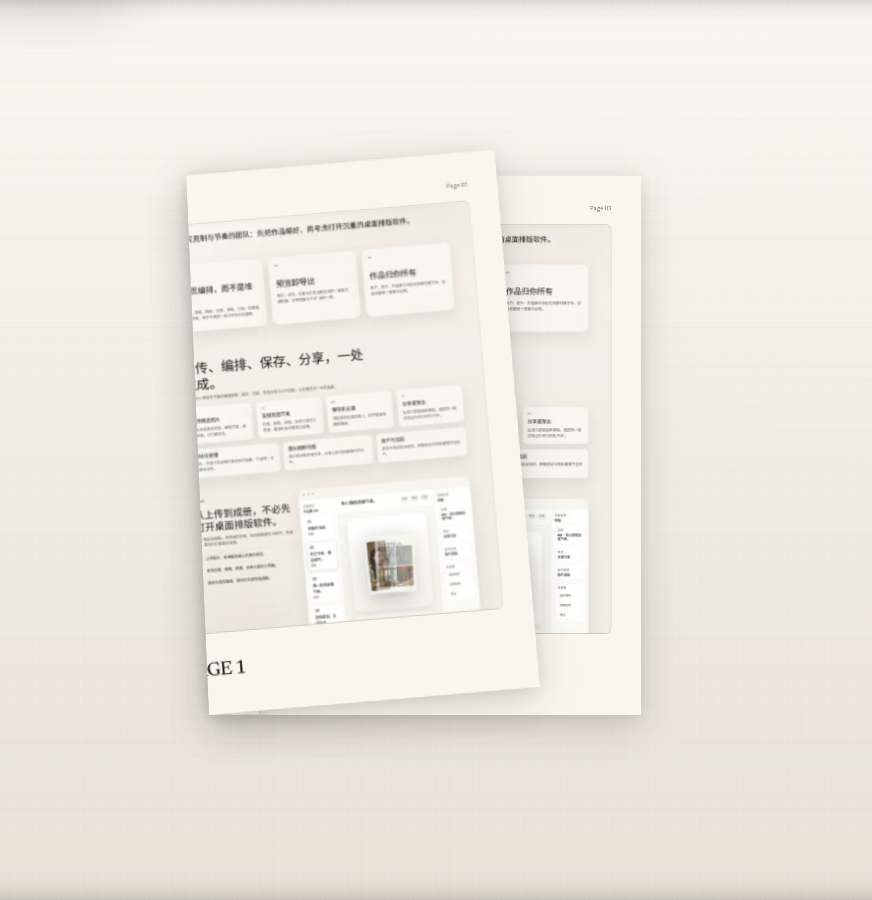
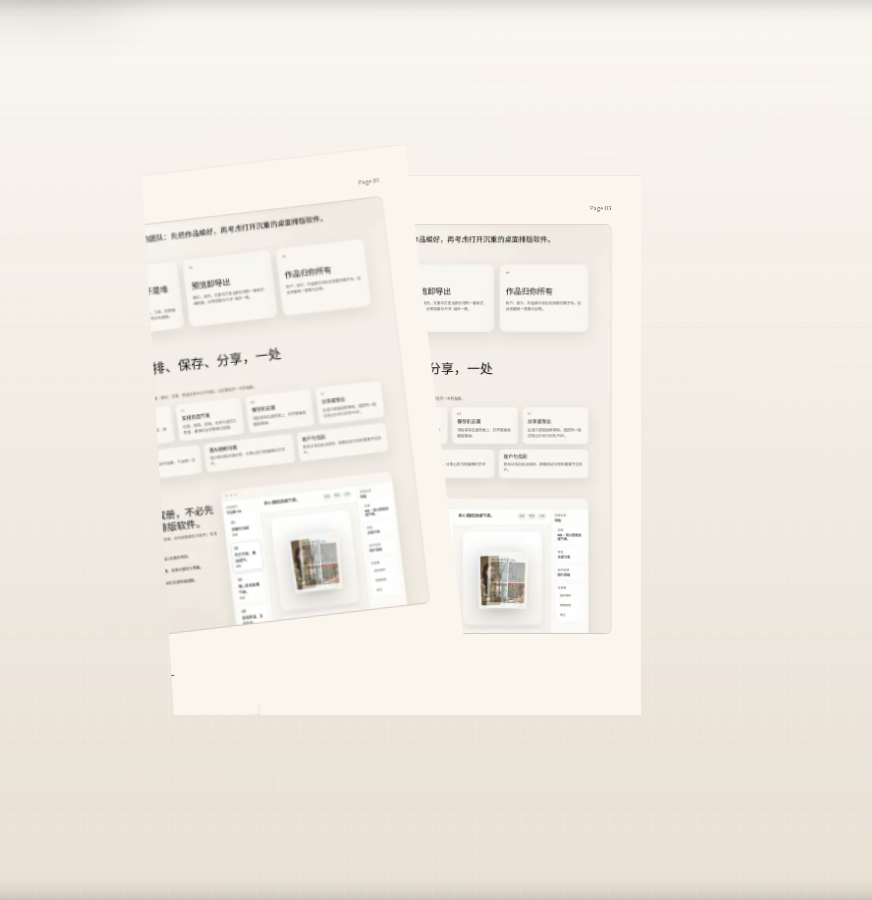
Use per-page box-shadow instead of a drop-shadow filter
The page shadow was a `filter: drop-shadow` on the page wrapper. A filter forces
the whole page, including images, to re-rasterize during the 3D turn, which made
the shadow unstable on presses, drags and corner peels and made images flicker.

The shadow is now a `box-shadow` on the page surface. It is static CSS, follows
the transformed page, and has no filter ancestor, so the shadow value does not
change on hover or press and images are not re-rasterized. There is still no
global background shadow.

Tests assert the per-page box-shadow in every state, that no wrapper or image
ancestor has a filter, and that hovering all four corners and pressing the page
leave the shadow value unchanged.

Changed region(s): [[0.1548, 0.2178, 0.7122, 0.84], [0.4335, 0.2489, 0.5883, 0.3422], [0.4025, 0.3733, 0.4335, 0.4044]]

diff --git a/tests/e2e/reader-turn.spec.ts b/tests/e2e/reader-turn.spec.ts
@@ -107,8 +107,9 @@ type PageShadowState = {
   globalAfterContent: string;
   globalBeforeShadow: string;
   globalAfterShadow: string;
-  pageFilters: string[];
-  visiblePageFilters: string[];
+  wrapperFilters: string[];
+  visiblePageShadows: string[];
+  imageAncestorFilters: string[];
 };
 
 async function pageShadowState(page: Page): Promise<PageShadowState | null> {
@@ -117,23 +118,44 @@ async function pageShadowState(page: Page): Promise<PageShadowState | null> {
     if (!book) return null;
     const wrappers = Array.from(book.querySelectorAll('.page-wrapper'));
     const visible = wrappers.filter((wrapper) => wrapper.getBoundingClientRect().width > 10);
+    const imageAncestorFilters = Array.from(book.querySelectorAll('img')).flatMap((image) => {
+      const filters: string[] = [];
+      let node: HTMLElement | null = image;
+      while (node && node !== book) {
+        filters.push(getComputedStyle(node).filter);
+        node = node.parentElement;
+      }
+      return filters;
+    });
     return {
       className: book.className,
       globalBeforeContent: getComputedStyle(book, '::before').content,
       globalAfterContent: getComputedStyle(book, '::after').content,
       globalBeforeShadow: getComputedStyle(book, '::before').boxShadow,
       globalAfterShadow: getComputedStyle(book, '::after').boxShadow,
-      pageFilters: wrappers.map((wrapper) => getComputedStyle(wrapper).filter),
-      visiblePageFilters: visible.map((wrapper) => getComputedStyle(wrapper).filter),
+      wrapperFilters: wrappers.map((wrapper) => getComputedStyle(wrapper).filter),
+      visiblePageShadows: visible.map(
+        (wrapper) => getComputedStyle(wrapper.querySelector('.magazine-page') ?? wrapper).boxShadow,
+      ),
+      imageAncestorFilters,
     };
   });
 }
 
 function expectPageShadows(state: PageShadowState | null) {
   expect(state).not.toBeNull();
-  expect(state!.visiblePageFilters.length).toBeGreaterThan(0);
-  for (const filter of state!.visiblePageFilters) {
-    expect(filter).toContain('drop-shadow');
+  expect(state!.visiblePageShadows.length).toBeGreaterThan(0);
+  for (const shadow of state!.visiblePageShadows) {
+    expect(shadow, 'page surface shadow').not.toBe('none');
+    expect(shadow).toContain('rgba');
+  }
+  // No filter on the wrappers or on any image ancestor: filters force the
+  // page content to re-rasterize during 3D transforms and make images flicker.
+  for (const filter of state!.wrapperFilters) {
+    expect(filter, 'page wrapper filter').toBe('none');
+  }
+  for (const filter of state!.imageAncestorFilters) {
+    expect(filter, 'image ancestor filter').toBe('none');
   }
   expect(state!.globalBeforeContent).toBe('none');
   expect(state!.globalAfterContent).toBe('none');
@@ -192,6 +214,66 @@ test('a turn keeps the page shadow and never introduces a global background shad
   await page.mouse.up();
   await page.waitForTimeout(300);
   expectPageShadows(await pageShadowState(page));
+});
+
+test('hovering a corner and pressing a page do not change the page shadow', async ({ page }) => {
+  await signIn(page, '/editor');
+  const sharePath = await createShare(page);
+  await page.goto(sharePath);
+  await expect(page.locator('.issue-viewer__turnjs--ready')).toBeVisible({ timeout: 20_000 });
+  await page.waitForTimeout(800);
+  const next = page.locator('.issue-view-sidebar button').filter({ hasText: /Next|下一页/ }).first();
+  await next.click();
+  await page.waitForTimeout(900);
+
+  const shadows = () =>
+    page.evaluate(() => {
+      const map = new Map<string, string>();
+      document.querySelectorAll('.issue-viewer__turnjs .page-wrapper').forEach((wrapper) => {
+        if (wrapper.getBoundingClientRect().width <= 10) return;
+        const page = wrapper.querySelector('.page');
+        const key = page?.className.match(/\bp\d+\b/)?.[0] ?? Math.random().toString();
+        map.set(key, getComputedStyle(wrapper.querySelector('.magazine-page') ?? wrapper).boxShadow);
+      });
+      return Array.from(map.entries());
+    });
+
+  const before = await shadows();
+  const beforeMap = new Map(before);
+  const book = page.locator('.issue-viewer__turnjs');
+  const box = await book.boundingBox();
+  expect(box).not.toBeNull();
+
+  // Hover each corner; the page shadow value must not change.
+  const corners: Array<[number, number]> = [
+    [box!.x + 8, box!.y + 8],
+    [box!.x + box!.width - 8, box!.y + 8],
+    [box!.x + 8, box!.y + box!.height - 8],
+    [box!.x + box!.width - 8, box!.y + box!.height - 8],
+  ];
+  for (const [x, y] of corners) {
+    await page.mouse.move(x, y);
+    await page.waitForTimeout(350);
+    const after = new Map(await shadows());
+    for (const [key, value] of beforeMap) {
+      if (after.has(key)) {
+        expect(after.get(key), `shadow for ${key} after hovering ${x},${y}`).toBe(value);
+      }
+    }
+  }
+
+  // Press and hold the page centre; the shadow value must not change.
+  await page.mouse.move(box!.x + box!.width / 2, box!.y + box!.height / 2);
+  await page.mouse.down();
+  await page.waitForTimeout(500);
+  const pressed = new Map(await shadows());
+  for (const [key, value] of beforeMap) {
+    if (pressed.has(key)) {
+      expect(pressed.get(key), `shadow for ${key} after press`).toBe(value);
+    }
+  }
+  await page.mouse.up();
+  await page.waitForTimeout(300);
 });
 
 test('mobile keeps per-page shadows and no global background shadow', async ({ browser }) => {

diff --git a/src/styles.css b/src/styles.css
@@ -5022,14 +5022,7 @@ button.asset-frame {
   display: none !important;
 }
 
-/* No global background shadow. Each page carries its own drop shadow, so it is
-   present whether the page is closed, open, turning, or flat, and it follows
-   the page through the air. */
-.issue-viewer__turnjs .page-wrapper {
-  filter:
-    drop-shadow(0 12px 20px rgba(17, 17, 17, 0.15))
-    drop-shadow(0 3px 7px rgba(17, 17, 17, 0.08));
-}
+
 
 .issue-viewer__turnjs .even .gradient,
 .issue-viewer__turnjs .odd .gradient,
@@ -5077,14 +5070,14 @@ button.asset-frame {
 
 .issue-turnjs__sheet-scale .magazine-page {
   box-shadow:
-    0 7px 12px rgba(17, 17, 17, 0.008),
-    0 2px 4px rgba(17, 17, 17, 0.004);
+    0 12px 22px rgba(17, 17, 17, 0.16),
+    0 3px 7px rgba(17, 17, 17, 0.08);
 }
 
 .issue-turnjs__page--boundary .issue-turnjs__sheet-scale .magazine-page {
   box-shadow:
-    0 8px 14px rgba(17, 17, 17, 0.011),
-    0 2px 5px rgba(17, 17, 17, 0.005);
+    0 10px 18px rgba(17, 17, 17, 0.14),
+    0 2px 6px rgba(17, 17, 17, 0.07);
 }
 
 .issue-viewer__boundary-turn {

diff --git a/docs/issue-register.md b/docs/issue-register.md
@@ -163,7 +163,7 @@
 | T7 | 图库磁贴悬停时边框变白，照片像被裁掉 | hover 规则用了白色边框 + 浮起阴影 | 已修复：悬停只把边框加深到 30% 墨色，不浮起、不变白 |
 | T8 | 图片未加载时显示纯白块，像是坏了 | 没有加载/失败状态 | 已修复：共用 `PhotoThumb`，加载中显示“加载中…”，失败显示“图片无法显示”；证据 `docs/evidence/2026-11-21-gallery-loading.png` |
 | T9 | 点击 UnAlbum 图片只显示“导入中”，随后没有反应，实际无法使用 | 导入路由还引用了已删除的 `binding` 变量，接口 500 | 已修复：使用 `getPhotoForUser` 返回的 binding；`validate:mvp` 新增真实导入 + 去重 + 缩略图代理用例 |
-| T20 | 全局背景阴影闪烁；按住页面时加深/消失；拖动时整块消失；取消拖动返回时提前出现；页面掀起后背景仍在或消失不及时 | 背景阴影被绑定到掀起/按压/提交时序，逐帧切换无法稳定匹配纸张；多次按侧/按压门/提交门修补仍有时序差 | 已彻底移除全局背景阴影（`::before`/`::after` 与全部阴影状态代码），改为每个 `.page-wrapper` 自带 `drop-shadow`，闭合/展开/翻动/平铺都保留并随纸移动；turn.js gradients 关闭隐藏。无全局层可闪烁/消失/提前出现。测试 reader 5/5 |
+| T20 | 全局背景阴影闪烁/消失/提前出现；页面阴影在按压、拖动、悬停角时闪烁；翻页中图片闪烁 | 背景阴影绑定到掀起时序；页面阴影用 `filter: drop-shadow` 会强制整页（含图片）在 3D 变换中重栅格化 | 已移除全局背景阴影；页面阴影改为 `.magazine-page` 的 `box-shadow`，无 filter 祖先，图片不重绘；闭合/展开/翻动/平铺都保留并随纸移动。测试 reader 6/6 |
 | T19 | 从封面翻开时左侧出现第二页内容；turn.js 单面页面把封面正面留在左边、把目标页画在翻页背面 | 阅读器把每一页当作单面 DOM，turn.js 的 sheet 效果没有独立背面 | **未修复，需页面模型改造**：正确方案是把奇数页/偶数页配成一张纸，正反两面分别渲染并做背面隐藏；试过的 CSS 镜像/隐藏背面会产生空白或扭曲，已回退。需要确认翻页配对规则后再改（见报告 2026-11-22） |
 | T18 | 分享页未翻页时杂志没有任何背景阴影或轮廓，像浮在空白上的白纸；已有的阴影 CSS 从未被任何代码激活 | 阴影状态类无人设置，turn.js 自带 `.shadow` 又被强制隐藏 | 已修复：在书本体上增加非旋转接触阴影（左右两半，`::before`/`::after`），按 cover/spread/last 三种静止形态只覆盖真实纸张，翻页期间按仍在桌面上的纸张逐半保留/移除；1px 纸边 + 两层柔和投影，ready 后才淡入。实测 cover/spread/翻页中/落页/折角/拖拽折角/移动端/全屏 8 种状态；证据 `docs/evidence/2026-11-22-reader-*.png`；新增 e2e 断言三种静止形态的阴影几何 |
 | T14 | 公开分享页拖拽翻页后，页面一直粘在鼠标上，松开左键或单击都不释放 | 内置 turn.js 在全局 mouseup 中对 `document` 调用 `offset()`、对没有事件数据的元素取 `dispatch`，抛错后没有清理拖拽状态；peel 释放时又访问了不存在的 `dpoint` | 已修复：对 vendor 里三处做防御（document offset、缺失 events、缺失 dpoint），并把版本号提升到 `20261121e`；新增 e2e 拖拽-释放-移动断言，连续 8 次通过 |

diff --git a/docs/remediation-report-2026-11-22.md b/docs/remediation-report-2026-11-22.md
@@ -7,19 +7,21 @@ vanished during a drag, and could reappear before a cancelled page had settled.
 After several attempts to drive it from the lift state, the user accepted the
 fallback: remove the global background shadow and keep each page's own shadow.
 
-**Decision.** There is no global background/contact shadow. Every page wrapper
-carries its own drop-shadow filter, so a page has a shadow whether it is closed,
-open, turning, or flat, and the shadow follows it through the air. Because the
-shadow is a static CSS filter on the page, it cannot flicker, disappear, or
-appear early.
+**Decision.** There is no global background/contact shadow. Every page surface
+carries its own `box-shadow`, so a page has a shadow whether it is closed, open,
+turning, or flat, and the shadow follows it through the air. A `box-shadow` does
+not create a filter layer, so the page content (including images) is not
+re-rasterized during the 3D turn, which removes the image flicker. The shadow is
+static CSS, so it cannot flicker, disappear, or appear early.
 
 **Implementation:**
 
 - Removed the two half-layers (`.issue-viewer__turnjs::before/::after`) and all
   code that toggled them (`shadowLeft`/`shadowRight`, `data-lift-side`, the
   per-frame lift loop, pointer-drag tracking).
-- `.issue-viewer__turnjs .page-wrapper` has a `drop-shadow` filter. Turn.js
-  transforms the wrapper, so the shadow follows the moving sheet.
+- `.issue-turnjs__sheet-scale .magazine-page` has a `box-shadow`. Turn.js
+  transforms the sheet, so the shadow follows the moving page. There is no
+  `filter` on the wrapper or on any image ancestor.
 - Turn.js `gradients` is off and its `inner-gradient`/`outer-gradient` layers are
   hidden, so there is no direction-dependent spine band.
 - The page's own `.magazine-page` box-shadow remains as a subtle surface edge.
@@ -29,11 +31,11 @@ appear early.
 | State | Global background shadow | Per-page shadow |
 | --- | --- | --- |
 | Cover (closed) | none | cover page |
-| Cover opening, mid-flight | none | moving sheet (`p1`/`p2`) |
+| Cover opening, mid-flight | none | moving page (`p1`/`p2`) |
 | Spread | none | both pages |
-| Closing / last page, mid-flight | none | moving sheet and flat pages |
+| Closing / last page, mid-flight | none | moving page and flat pages |
 | Drag, cancelled | none | unchanged |
-| Press / hover | none | unchanged |
+| Press / hover | none | shadow value unchanged |
 
 **States verified visually** (evidence in `docs/evidence/`):
 
@@ -51,10 +53,12 @@ appear early.
 | Mobile single page | `2026-11-22-reader-mobile.png` |
 | Fullscreen | `2026-11-22-reader-fullscreen.png` |
 
-**Regression guard:** `tests/e2e/reader-turn.spec.ts` asserts that visible page
-wrappers carry a `drop-shadow` filter in every state (cover, spread, last page,
-mid-turn, press, mobile, auto-slide) and that the book has no `::before`/`::after`
-background layer.
+**Regression guard:** `tests/e2e/reader-turn.spec.ts` asserts that visible pages
+carry a `box-shadow` in every state (cover, spread, last page, mid-turn, press,
+mobile, auto-slide), that no page wrapper or image ancestor has a `filter`, and
+that the book has no `::before`/`::after` background layer. A dedicated test
+hovers all four corners and presses the page, asserting the per-page shadow value
+does not change.
 
 ### Known limitation found while validating the opening
 

diff --git a/docs/devlog.md b/docs/devlog.md
@@ -1914,11 +1914,12 @@
   at full strength while a page was in the air, and that turn.js's fold gradients
   were the direction-dependent spine shading. Turn.js's `.shadow` element paints
   nothing and was ruled out.
-- The global background shadow is gone. Every page wrapper carries its own
-  drop-shadow filter, so a page has a shadow whether closed, open, turning, or
-  flat, and it follows the sheet through the air. With no global layer there is
-  nothing to flicker, vanish on a drag, or reappear before a cancelled page
-  settles.
+- The global background shadow is gone. Every page surface carries its own
+  `box-shadow`, so a page has a shadow whether closed, open, turning, or flat,
+  and it follows the sheet through the air. No `filter` is used on the wrapper or
+  on image ancestors, so page content is not re-rasterized during the turn and
+  images do not flicker. With no global layer there is nothing to vanish on a
+  drag or reappear before a cancelled page settles.
 - Turn.js gradients are disabled and their layers hidden, so the spine has the same
   (no) shading in both directions.
 - The moving sheet keeps its own shadow: the per-frame pass marks page wrappers
